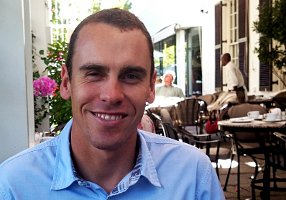
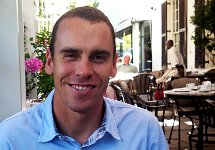
Sidebar added

diff --git a/research.html b/research.html
@@ -10,18 +10,36 @@
 
 <body>
 
-<a href="index.html">Home</a>
+<!--<a href="index.html">Home</a>-->
+
+<div id="left-sidebar">
+
+<h1>Theo Pepler</h1>
+
+<img src="tpepler.jpg" height=150>
+
+<li><a href="index.html">Home</a></li>
+<li><a href="research.html">Research</a></li>
+<li><a href="teaching.html">Teaching</a></li>
+<!--<li>Item 3</li>
+<li>Item 4</li>
+-->
+<li><a href="resources.html">Links and resources</a></li>
+
+</div>
+
+<div id="content">
 
 <h1>Research</h1>
 
 <h2>Publications</h2>
-Bester, R., <b>Pepler, P.T.</b>, Burger, J.T. and Maree, H.J. (Accepted). Relative quantification goes viral: An RT-qPCR assay to determine the concentration of a grapevine virus. <i>Journal of Virological Methods</i>. [Accepted for publication]
+[4] Bester, R., <b>Pepler, P.T.</b>, Burger, J.T. and Maree, H.J. (Accepted). Relative quantification goes viral: An RT-qPCR assay to determine the concentration of a grapevine virus. <i>Journal of Virological Methods</i>. [Accepted for publication]
 <br><br>
-<b>Pepler, P.T.</b>, Uys, D.W. and Nel, D.G. (Accepted). A comparison of some methods for the selection of a common eigenvector model for the covariance matrices of two groups. <i>Communications in Statistics - Simulation and Computation</i>. [Accepted for publication]
+[3] <b>Pepler, P.T.</b>, Uys, D.W. and Nel, D.G. (Accepted). A comparison of some methods for the selection of a common eigenvector model for the covariance matrices of two groups. <i>Communications in Statistics - Simulation and Computation</i>. [Accepted for publication]
 <br><br>
-Hauser, N.D., Dyer, R.A., <b>Pepler, P.T.</b> and Rolfe, D.A. (2014). An observational audit of pain scores post-orthopaedic surgery at a level two state hospital in Cape Town. <i>South African Journal of Anaesthesia and Analgesia</i>, 20(2):110-116. [<a href="http://scholar.sun.ac.za/bitstream/handle/10019.1/86863/hauser_2014_observational.pdf">Download</a>]
+[2] Hauser, N.D., Dyer, R.A., <b>Pepler, P.T.</b> and Rolfe, D.A. (2014). An observational audit of pain scores post-orthopaedic surgery at a level two state hospital in Cape Town. <i>South African Journal of Anaesthesia and Analgesia</i>, 20(2): 110-116. [<a href="http://scholar.sun.ac.za/bitstream/handle/10019.1/86863/hauser_2014_observational.pdf">Download</a>]
 <br><br>
-<b>Pepler, P.T.</b>, Uys, D.W. and Nel, D.G. (2012). Predicting mortality and length-of-stay for neonatal admissions to private hospital neonatal intensive care units: A Southern African retrospective study. <i>African Health Sciences</i>, 12(2):166-173. [<a href="http://scholar.sun.ac.za/bitstream/handle/10019.1/49199/pepler_predicting_2012.pdf">Download</a>]
+[1] <b>Pepler, P.T.</b>, Uys, D.W. and Nel, D.G. (2012). Predicting mortality and length-of-stay for neonatal admissions to private hospital neonatal intensive care units: A Southern African retrospective study. <i>African Health Sciences</i>, 12(2): 166-173. [<a href="http://scholar.sun.ac.za/bitstream/handle/10019.1/49199/pepler_predicting_2012.pdf">Download</a>]
 <br><br>
 
 <h2>Working papers</h2>
@@ -29,23 +47,23 @@ Hauser, N.D., Dyer, R.A., <b>Pepler, P.T.</b> and Rolfe, D.A. (2014). An observa
 <br><br>
 
 <h2>Conference papers</h2>
-<b>Pepler, P.T.</b> (2014). The regularised CPC covariance matrix estimator and its application in discriminant analysis. <i>The 27th International Biometric Conference</i>. Florence, Italy. Jul 2014. [poster presentation - <a href="Downloads/ptpepler_ibc2014_20140708.pdf">Download</a>]
+[5] <b>Pepler, P.T.</b> (2014). The regularised CPC covariance matrix estimator and its application in discriminant analysis. <i>The 27th International Biometric Conference</i>. Florence, Italy. Jul 2014. [poster presentation - <a href="Downloads/ptpepler_ibc2014_20140708.pdf">Download</a>]
 <br><br>
-<b>Pepler, P.T.</b> (2013). Efficiency of the CPC estimator in modelling the covariance structures of several populations. <i>The 55th annual conference of the South African Statistical Association (SASA)</i>. Polokwane, South Africa. Nov 2013. [<a href="Downloads/ptpepler_sasa2013_201311.pdf">Download</a>]
+[4] <b>Pepler, P.T.</b> (2013). Efficiency of the CPC estimator in modelling the covariance structures of several populations. <i>The 55th annual conference of the South African Statistical Association (SASA)</i>. Polokwane, South Africa. Nov 2013. [<a href="Downloads/ptpepler_sasa2013_201311.pdf">Download</a>]
 <br><br>
-<b>Pepler, P.T.</b> (2012). Comparison of some methods for the identification of common eigenvectors. <i>The 54th annual conference of the South African Statistical Association (SASA)</i>. Port Elizabeth, South Africa. Nov 2012. [<a href="Downloads/ptpepler_sasa2012_20121108.pdf">Download</a>]
+[3] <b>Pepler, P.T.</b> (2012). Comparison of some methods for the identification of common eigenvectors. <i>The 54th annual conference of the South African Statistical Association (SASA)</i>. Port Elizabeth, South Africa. Nov 2012. [<a href="Downloads/ptpepler_sasa2012_20121108.pdf">Download</a>]
 <br><br>
-<b>Pepler, P.T.</b> (2012). On the identification of common principal components. <i>8th World Congress in Probability and Statistics</i>. Istanbul, Turkey. Jul 2012. [<a href="Downloads/ptpepler_wcps2012_20120710.pdf">Download</a>]
+[2] <b>Pepler, P.T.</b> (2012). On the identification of common principal components. <i>8th World Congress in Probability and Statistics</i>. Istanbul, Turkey. Jul 2012. [<a href="Downloads/ptpepler_wcps2012_20120710.pdf">Download</a>]
 <br><br>
-<b>Pepler, P.T.</b> (2011). On the application of common principal components in biplots. <i>The 53rd annual conference of the South African Statistical Association (SASA)</i>. Pretoria, South Africa. Nov 2011. [<a href="Downloads/ptpepler_sasa2011_20111101.pdf">Download</a>]
+[1] <b>Pepler, P.T.</b> (2011). On the application of common principal components in biplots. <i>The 53rd annual conference of the South African Statistical Association (SASA)</i>. Pretoria, South Africa. Nov 2011. [<a href="Downloads/ptpepler_sasa2011_20111101.pdf">Download</a>]
 <br><br>
 
 <h2>Invited talks</h2>
-<b>Pepler, P.T.</b> (2014). Common principal components. <i>Seminar at the Department of Statistical Sciences, University of Cape Town</i>. Cape Town, South Africa. Sep 2014. [<a href="Downloads/ptpepler_uctseminar_20140922.pdf">Download</a>]
+[3] <b>Pepler, P.T.</b> (2014). Common principal components. <i>Seminar at the Department of Statistical Sciences, University of Cape Town</i>. Cape Town, South Africa. Sep 2014. [<a href="Downloads/ptpepler_uctseminar_20140922.pdf">Download</a>]
 <br><br>
-<b>Pepler, P.T.</b> (2011). Common principal components. <i>Seminar at Department of Statistics and Actuarial Science, Stellenbosch University</i>. Stellenbosch, South Africa. Aug 2011. [<a href="Downloads/ptpepler_suseminar_20110826.pdf">Download</a>]
+[2] <b>Pepler, P.T.</b> (2011). Common principal components. <i>Seminar at Department of Statistics and Actuarial Science, Stellenbosch University</i>. Stellenbosch, South Africa. Aug 2011. [<a href="Downloads/ptpepler_suseminar_20110826.pdf">Download</a>]
 <br><br>
-<b>Pepler, P.T.</b> (2008). VON Data Analysis: Interpretation of the statistics. <i>Vermont Oxford Network (VON) Symposium</i>. Somerset West, South Africa. Oct 2008.
+[1] <b>Pepler, P.T.</b> (2008). VON Data Analysis: Interpretation of the statistics. <i>Vermont Oxford Network (VON) Symposium</i>. Somerset West, South Africa. Oct 2008.
 <br><br>
 
 <h2>Software</h2>
@@ -64,6 +82,9 @@ Hauser, N.D., Dyer, R.A., <b>Pepler, P.T.</b> and Rolfe, D.A. (2014). An observa
 <b>Pepler, P.T.</b> (2006). Detecting Active Effects in Unreplicated 2<sup>k</sup> Factorial Experiments: A Simulation Study. <i>Masters degree assignment</i>. Dec 2006.
 <br><br>
 <br><br>
+
+</div>
+
 </body>
 
 </html>

diff --git a/index.html b/index.html
@@ -10,10 +10,13 @@
 
 <body>
 
+<div id="left-sidebar">
+
 <h1>Theo Pepler</h1>
 
-<img src="tpepler.jpg" height=200>
+<img src="tpepler.jpg" height=150>
 
+<li><a href="index.html">Home</a></li>
 <li><a href="research.html">Research</a></li>
 <li><a href="teaching.html">Teaching</a></li>
 <!--<li>Item 3</li>
@@ -21,15 +24,19 @@
 -->
 <li><a href="resources.html">Links and resources</a></li>
 
+</div>
+
+<div id="content">
+
 <p>
 <br>
-Hi, I'm Theo, and welcome to my home page. I am a lecturer in Biometry at <a href="http://www.sun.ac.za/">Stellenbosch University</a>, researcher, applied statistician, and all-round data analyst.<br>
+Hi, I'm Theo, and welcome to my home page. I am a lecturer in Biometry at <a href="http://www.sun.ac.za/">Stellenbosch University</a>, researcher, applied statistician, and all-round data scientist.<br>
 <br>
 I am passionate about <a href="http://www.r-project.org/">statistical computing</a>, <a href="http://www.fsf.org/">free software</a> and machine learning, amongst other things. My current research interests are in <a href="http://en.wikipedia.org/wiki/Multivariate_statistics">multivariate statistics</a>, <a href="http://en.wikipedia.org/wiki/Principal_component_analysis">principal component analysis (PCA)</a>, <a href="http://en.wikipedia.org/wiki/Bootstrapping_(statistics)">bootstrapping</a> and other <a href="http://en.wikipedia.org/wiki/Resampling_(statistics)">resampling</a> methods, <a href="http://en.wikipedia.org/wiki/Nonparametric_statistics">nonparametric statistics</a>, and <a href="http://en.wikipedia.org/wiki/Biostatistics">biostatistics</a>.<br>
 <br>
 You can contact me via <a href="http://za.linkedin.com/in/theopepler/">LinkedIn</a>, or by email. My address is tpepler, followed by the "at" sign, followed by the word, sun. After that, you write dot ac dot za.
 
-<br><br><br><br>
+<br><br><br>
 
 <b>P.T. Pepler</b><br>
 Stellenbosch University<br>
@@ -39,6 +46,8 @@ Van der Byl Street<br>
 Stellenbosch, 7600<br>
 South Africa
 </p>
+
+</div>
 
 </body>
 

diff --git a/default.css b/default.css
@@ -1,16 +1,15 @@
 body {
 	margin-top: 20px;
-	margin-left: 40px;
-	margin-right: 40px;
+	/*margin-left: 40px;*/
 	padding: 0;
-	/*background: #D1D1D1;*/
 	/*background: #DEDEDE;*/
 	background: #3B3B3B;
-	font-family: sans-serif;
+	font-family: serif, sans-serif;
 	/*color: #424140;*/
 	/*color: #D1D1D1;*/
 	color: white;
-	font-size: 16px;
+	font-size: 18px;
+	line-height: 1.5;
 }
 
 h1, h2, h3 {
@@ -25,11 +24,11 @@ h1, h2, h3 {
 
 h1 {
 	/*letter-spacing: -1px;*/
-	font-size: 32px;
+	font-size: 34px;
 }
 
 h2 {
-	font-size: 23px;
+	font-size: 25px;
 }
 
 img {
@@ -61,4 +60,23 @@ li {
 
 img {
 	margin-bottom: 10px;
+}
+
+div#left-sidebar{
+	position:fixed;
+	top:0;
+	left:20;
+	margin-right: 40px;
+	margin-left: 0px;
+	margin-top: 0px;
+	width:250px;
+	height:100%;
+	/*background: black;*/
+	color: #3B3B3B;
+}
+
+div#content{
+	/*width: 500px;*/
+	margin-left: 290px;
+	margin-right: 40px;
 }

diff --git a/resources.html b/resources.html
@@ -10,7 +10,23 @@
 
 <body>
 
-<a href="index.html">Home</a>
+<div id="left-sidebar">
+
+<h1>Theo Pepler</h1>
+
+<img src="tpepler.jpg" height=150>
+
+<li><a href="index.html">Home</a></li>
+<li><a href="research.html">Research</a></li>
+<li><a href="teaching.html">Teaching</a></li>
+<!--<li>Item 3</li>
+<li>Item 4</li>
+-->
+<li><a href="resources.html">Links and resources</a></li>
+
+</div>
+
+<div id="content">
 
 <h1>Links and resources</h1>
 
@@ -59,6 +75,8 @@
 <li><a href="http://robjhyndman.com/hyndsight/">Hyndsight</a></li>
 <li><a href="http://matt.might.net/articles/">Matt Might's blog</a></li>
 <li><a href="http://www.phdcomics.com">PhD Comics</a></li>
+
+</div>
 
 </body>
 

diff --git a/teaching.html b/teaching.html
@@ -10,7 +10,23 @@
 
 <body>
 
-<a href="index.html">Home</a>
+<div id="left-sidebar">
+
+<h1>Theo Pepler</h1>
+
+<img src="tpepler.jpg" height=150>
+
+<li><a href="index.html">Home</a></li>
+<li><a href="research.html">Research</a></li>
+<li><a href="teaching.html">Teaching</a></li>
+<!--<li>Item 3</li>
+<li>Item 4</li>
+-->
+<li><a href="resources.html">Links and resources</a></li>
+
+</div>
+
+<div id="content">
 
 <h1>Teaching</h1>
 
@@ -54,6 +70,8 @@ Introductory statistics module offered to students in the health sciences.
 <li><b>Danielle Cowie</b> - MSc (Genetics), Stellenbosch University<br>
 Thesis title: <i>Iron and TB pathogenesis</i></li>
 <br><br>
+
+</div>
 
 </body>
 
